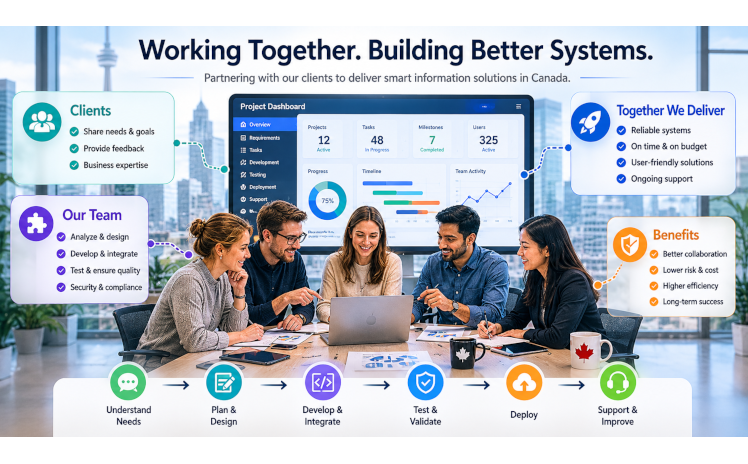
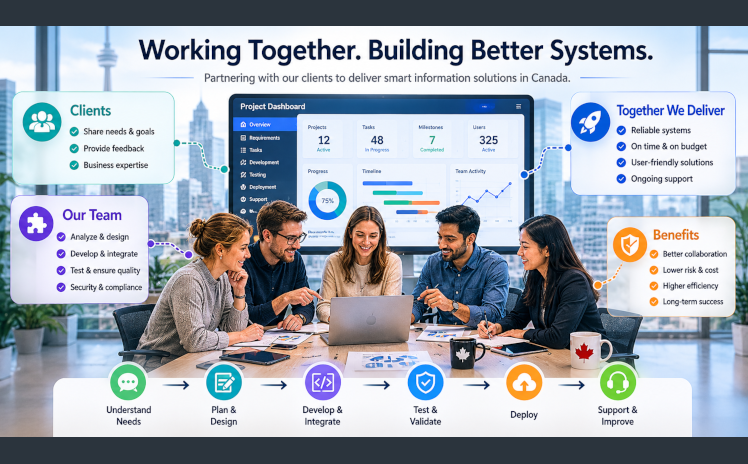
加入第三方支持信息

Changed region(s): [[0.0, 0.9353, 1.0, 1.0], [0.0, 0.0, 1.0, 0.0603]]

diff --git a/service.html b/service.html
@@ -14,39 +14,56 @@
     </noscript>
     <style>
         /* 强制重置所有 Swiper 容器的宽度 */
-    .xsoleCAD, .zipSole, .orthoxpert {
-        width: 100% !important;      /* 宽度随父容器 100% */
-        max-width: 748px !important; /* 最大不超 748px */
-        height: auto !important;     /* 必须设为 auto，由比例决定高度 */
-        margin: 1em auto !important; /* 居中 */
-        aspect-ratio: auto !important; /* 允许根据图片自动调整 */
-        overflow: hidden;
-    }
-
-    /* 确保 Swiper 内部每一项和图片都随之缩放 */
-    .swiper-slide {
-        width: 100% !important;
-        height: auto !important;
-    }
-
-    .swiper-slide img {
-        width: 100% !important;      /* 图片撑满容器宽度 */
-        height: auto !important;     /* 高度自动缩放，不拉伸 */
-        display: block;
-        object-fit: contain;         /* 确保整张图片可见 */
-    }
-
-    /* 针对 Spectral 模板 Spotlight 布局的移动端适配 */
-    @media screen and (max-width: 1280px) {
-        .spotlight {
-            flex-direction: column !important; /* 窄屏时让图片和文字上下排布 */
+        .xsoleCAD,
+        .zipSole,
+        .orthoxpert {
+            width: 100% !important;
+            /* 宽度随父容器 100% */
+            max-width: 748px !important;
+            /* 最大不超 748px */
+            height: auto !important;
+            /* 必须设为 auto，由比例决定高度 */
+            margin: 1em auto !important;
+            /* 居中 */
+            aspect-ratio: auto !important;
+            /* 允许根据图片自动调整 */
+            overflow: hidden;
         }
-        .spotlight .image, .spotlight .swiper {
-            width: 100% !important;  /* 占满全宽 */
+
+        /* 确保 Swiper 内部每一项和图片都随之缩放 */
+        .swiper-slide {
+            width: 100% !important;
+            height: auto !important;
         }
-    }
+
+        .swiper-slide img {
+            width: 100% !important;
+            /* 图片撑满容器宽度 */
+            height: auto !important;
+            /* 高度自动缩放，不拉伸 */
+            display: block;
+            object-fit: contain;
+            /* 确保整张图片可见 */
+        }
+
+        /* 针对 Spectral 模板 Spotlight 布局的移动端适配 */
+        @media screen and (max-width: 1280px) {
+            .spotlight {
+                flex-direction: column !important;
+                /* 窄屏时让图片和文字上下排布 */
+            }
+
+            .spotlight .image,
+            .spotlight .swiper {
+                width: 100% !important;
+                /* 占满全宽 */
+            }
+        }
     </style>
-    <!-- Facebook Pixel Code --><script>!function(f,b,e,v,n,t,s){if(f.fbq)return;n=f.fbq=function(){n.callMethod?n.callMethod.apply(n,arguments):n.queue.push(arguments)};if(!f._fbq)f._fbq=n;n.push=n;n.loaded=!0;n.version='2.0';n.queue=[];t=b.createElement(e);t.async=!0;t.src=v;s=b.getElementsByTagName(e)[0];s.parentNode.insertBefore(t,s)}(window,document,'script','https://connect.facebook.net/en_US/fbevents.js'); fbq('init', '967870629265656'); fbq('track', 'PageView');</script><noscript> <img height="1" width="1" src="https://www.facebook.com/tr?id=967870629265656&ev=PageView&noscript=1"/></noscript><!-- End Facebook Pixel Code -->
+    <!-- Facebook Pixel Code -->
+    <script>!function (f, b, e, v, n, t, s) { if (f.fbq) return; n = f.fbq = function () { n.callMethod ? n.callMethod.apply(n, arguments) : n.queue.push(arguments) }; if (!f._fbq) f._fbq = n; n.push = n; n.loaded = !0; n.version = '2.0'; n.queue = []; t = b.createElement(e); t.async = !0; t.src = v; s = b.getElementsByTagName(e)[0]; s.parentNode.insertBefore(t, s) }(window, document, 'script', 'https://connect.facebook.net/en_US/fbevents.js'); fbq('init', '967870629265656'); fbq('track', 'PageView');</script>
+    <noscript> <img height="1" width="1"
+            src="https://www.facebook.com/tr?id=967870629265656&ev=PageView&noscript=1" /></noscript><!-- End Facebook Pixel Code -->
 </head>
 
 <body class="is-preload">
@@ -78,101 +95,95 @@
                     </ul>
                 </div>
             </section>
-            <section id="CAD" class="wrapper alt style2">
-                <section class="spotlight">
-                    <div class="swiper xsoleCAD">
-                        <div class="swiper-wrapper" id="xsoleCAD-swipper">
-                            <a data-lg-size="748-405" href="images/gallery/xsoleCAD/isoleCAD-x_1.jpg"
-                                class="swiper-slide">
-                                <img src="images/gallery/xsoleCAD/isoleCAD-x_1.jpg" />
-                            </a>
-                            <a data-lg-size="748-405" href="images/gallery/xsoleCAD/isoleCAD-x_2.jpg"
-                                class="swiper-slide">
-                                <img src="images/gallery/xsoleCAD/isoleCAD-x_2.jpg" />
-                            </a>
-                            <a data-lg-size="748-405" href="images/gallery/xsoleCAD/isoleCAD-x_3.jpg"
-                                class="swiper-slide">
-                                <img src="images/gallery/xsoleCAD/isoleCAD-x_3.jpg" />
-                            </a>
-                            <a data-lg-size="748-405" href="images/gallery/xsoleCAD/isoleCAD-x_4.jpg"
-                                class="swiper-slide">
-                                <img src="images/gallery/xsoleCAD/isoleCAD-x_4.jpg" />
-                            </a>
-                        </div>
-                        <div class="swiper-button-prev"></div>
-                        <div class="swiper-button-next"></div>
-                    </div>
-                    <div class="content">
-                        <h3>isoleCAD-X</h3>
-                        <p>The orthotics CAD design that comes with our equipment is feature-rich and easy to operate,
-                            which can greatly improve doctors' work efficiency.</p>
-                    </div>
-                </section>
-                <section class="spotlight">
-                    <div class="swiper zipSole">
-                        <div class="swiper-wrapper" id="zipSole-swipper">
-                            <a data-lg-size="748-405" href="images/gallery/zipsole/zipsole_1.jpg" class="swiper-slide">
-                                <img src="images/gallery/zipsole/zipsole_1.jpg" />
-                            </a>
-                            <a data-lg-size="748-405" href="images/gallery/zipsole/zipsole_2.jpg" class="swiper-slide">
-                                <img src="images/gallery/zipsole/zipsole_2.jpg" />
-                            </a>
-                            <a data-lg-size="748-405" href="images/gallery/zipsole/zipsole_3.jpg" class="swiper-slide">
-                                <img src="images/gallery/zipsole/zipsole_3.jpg" />
-                            </a>
-                        </div>
-                        <div class="swiper-button-prev"></div>
-                        <div class="swiper-button-next"></div>
-                    </div>
-                    <div class="content">
-                        <h3>zipSole</h3>
-                        <p>The online version of isoleCAD-X, is more intelligent and automated.</p>
-                    </div>
-                </section>
-                <section class="spotlight">
-                    <div class="swiper orthoxpert">
-                        <div class="swiper-wrapper" id="orthoxpert-swipper">
-                            <a data-lg-size="748-464" href="images/gallery/orthoxpert/orthoxpert_1.jpg"
-                                class="swiper-slide">
-                                <img src="images/gallery/orthoxpert/orthoxpert_1.jpg" />
-                            </a>
-                            <a data-lg-size="748-464" href="images/gallery/orthoxpert/orthoxpert_2.jpg"
-                                class="swiper-slide">
-                                <img src="images/gallery/orthoxpert/orthoxpert_2.jpg" />
-                            </a>
-                        </div>
-                        <div class="swiper-button-prev"></div>
-                        <div class="swiper-button-next"></div>
-                    </div>
-                    <div class="content">
-                        <h3>Orthoxpert</h3>
-                        <p>An online information management platform that enables web-based management of
-                            devices, customer information, and foot data. It also provides a customizable web-based
-                            scanning interface to help partners build their own technology brands.</p>
-                    </div>
-                </section>
-            </section>
             <section class="spotlight">
-                    <div class="swiper cooperation">
-                        <div class="swiper-wrapper" id="cooperation">
-                            <a data-lg-size="748-464" href="images/gallery/cooperation/cooperation.png"
-                                class="swiper-slide">
-                                <img src="images/gallery/cooperation/cooperation.png" />
-                            </a>
-                            <!-- <a data-lg-size="748-464" href="images/gallery/orthoxpert/orthoxpert_2.jpg"
+                <div class="swiper cooperation">
+                    <div class="swiper-wrapper" id="cooperation-swipper">
+                        <a data-lg-size="748-464" href="images/gallery/cooperation/cooperation.png"
+                            class="swiper-slide">
+                            <img src="images/gallery/cooperation/cooperation.png" />
+                        </a>
+                        <!-- <a data-lg-size="748-464" href="images/gallery/orthoxpert/orthoxpert_2.jpg"
                                 class="swiper-slide">
                                 <img src="images/gallery/orthoxpert/orthoxpert_2.jpg" />
                             </a> -->
-                        </div>
-                        <div class="swiper-button-prev"></div>
-                        <div class="swiper-button-next"></div>
                     </div>
-                    <div class="content">
-                        <h3>Cooperation</h3>
-                        <p>Our platform provides open, stable, and secure APIs that enable seamless integration with third-party systems and services. In the healthcare and information management industry, we have already connected with multiple partners across Canada and internationally, supporting efficient data exchange and collaborative workflows.
-Working closely with our partners, we have successfully co-developed a wide range of supporting information management systems, including healthcare operations platforms, client management systems, reporting dashboards, workflow automation tools, and industry-specific digital solutions. Our flexible architecture and collaborative development approach allow partners to rapidly build, customize, and expand solutions based on real business needs while maintaining long-term stability and scalability.</p>
+                    <div class="swiper-button-prev"></div>
+                    <div class="swiper-button-next"></div>
+                </div>
+                <div class="content">
+                    <h3>Cooperation</h3>
+                    <p>We offer secure APIs for seamless third-party integration. Partnering globally in healthcare and
+                        info-management, we co-develop custom systems from operations to automation, ensuring
+                        scalability and growth.</p>
+                </div>
+            </section>
+            <section class="spotlight">
+                <div class="swiper xsoleCAD">
+                    <div class="swiper-wrapper" id="xsoleCAD-swipper">
+                        <a data-lg-size="748-405" href="images/gallery/xsoleCAD/isoleCAD-x_1.jpg" class="swiper-slide">
+                            <img src="images/gallery/xsoleCAD/isoleCAD-x_1.jpg" />
+                        </a>
+                        <a data-lg-size="748-405" href="images/gallery/xsoleCAD/isoleCAD-x_2.jpg" class="swiper-slide">
+                            <img src="images/gallery/xsoleCAD/isoleCAD-x_2.jpg" />
+                        </a>
+                        <a data-lg-size="748-405" href="images/gallery/xsoleCAD/isoleCAD-x_3.jpg" class="swiper-slide">
+                            <img src="images/gallery/xsoleCAD/isoleCAD-x_3.jpg" />
+                        </a>
+                        <a data-lg-size="748-405" href="images/gallery/xsoleCAD/isoleCAD-x_4.jpg" class="swiper-slide">
+                            <img src="images/gallery/xsoleCAD/isoleCAD-x_4.jpg" />
+                        </a>
                     </div>
-                </section>
+                    <div class="swiper-button-prev"></div>
+                    <div class="swiper-button-next"></div>
+                </div>
+                <div class="content">
+                    <h3>isoleCAD-X</h3>
+                    <p>The orthotics CAD design that comes with our equipment is feature-rich and easy to operate,
+                        which can greatly improve doctors' work efficiency.</p>
+                </div>
+            </section>
+            <section class="spotlight">
+                <div class="swiper zipSole">
+                    <div class="swiper-wrapper" id="zipSole-swipper">
+                        <a data-lg-size="748-405" href="images/gallery/zipsole/zipsole_1.jpg" class="swiper-slide">
+                            <img src="images/gallery/zipsole/zipsole_1.jpg" />
+                        </a>
+                        <a data-lg-size="748-405" href="images/gallery/zipsole/zipsole_2.jpg" class="swiper-slide">
+                            <img src="images/gallery/zipsole/zipsole_2.jpg" />
+                        </a>
+                        <a data-lg-size="748-405" href="images/gallery/zipsole/zipsole_3.jpg" class="swiper-slide">
+                            <img src="images/gallery/zipsole/zipsole_3.jpg" />
+                        </a>
+                    </div>
+                    <div class="swiper-button-prev"></div>
+                    <div class="swiper-button-next"></div>
+                </div>
+                <div class="content">
+                    <h3>zipSole</h3>
+                    <p>The online version of isoleCAD-X, is more intelligent and automated.</p>
+                </div>
+            </section>
+            <section class="spotlight">
+                <div class="swiper orthoxpert">
+                    <div class="swiper-wrapper" id="orthoxpert-swipper">
+                        <a data-lg-size="748-464" href="images/gallery/orthoxpert/orthoxpert_1.jpg"
+                            class="swiper-slide">
+                            <img src="images/gallery/orthoxpert/orthoxpert_1.jpg" />
+                        </a>
+                        <a data-lg-size="748-464" href="images/gallery/orthoxpert/orthoxpert_2.jpg"
+                            class="swiper-slide">
+                            <img src="images/gallery/orthoxpert/orthoxpert_2.jpg" />
+                        </a>
+                    </div>
+                    <div class="swiper-button-prev"></div>
+                    <div class="swiper-button-next"></div>
+                </div>
+                <div class="content">
+                    <h3>Orthoxpert</h3>
+                    <p>An online information management platform that enables web-based management of
+                        devices, customer information, and foot data. It also provides a customizable web-based
+                        scanning interface to help partners build their own technology brands.</p>
+                </div>
             </section>
         </article>
 

diff --git a/index.html b/index.html
@@ -128,7 +128,7 @@
 				<div class="image"><img src="images/digital.jpg" alt="" /></div>
 				<div class="content">
 					<h2>Open Platform & Collaboration</h2>
-					<p>Built for partnership and growth. Our stable and open system offers robust APIs and seamless integration for healthcare and information management. We prioritize supporting third-party development, enabling partners to co-create and integrate flexible digital solutions tailored to their specific needs.</p>
+					<p>Open, stable, and built for growth. We provide robust APIs for seamless integration in healthcare and information management, empowering partners to build flexible digital solutions.</p>
 				</div>
 			</section>
 			<section class="spotlight">
